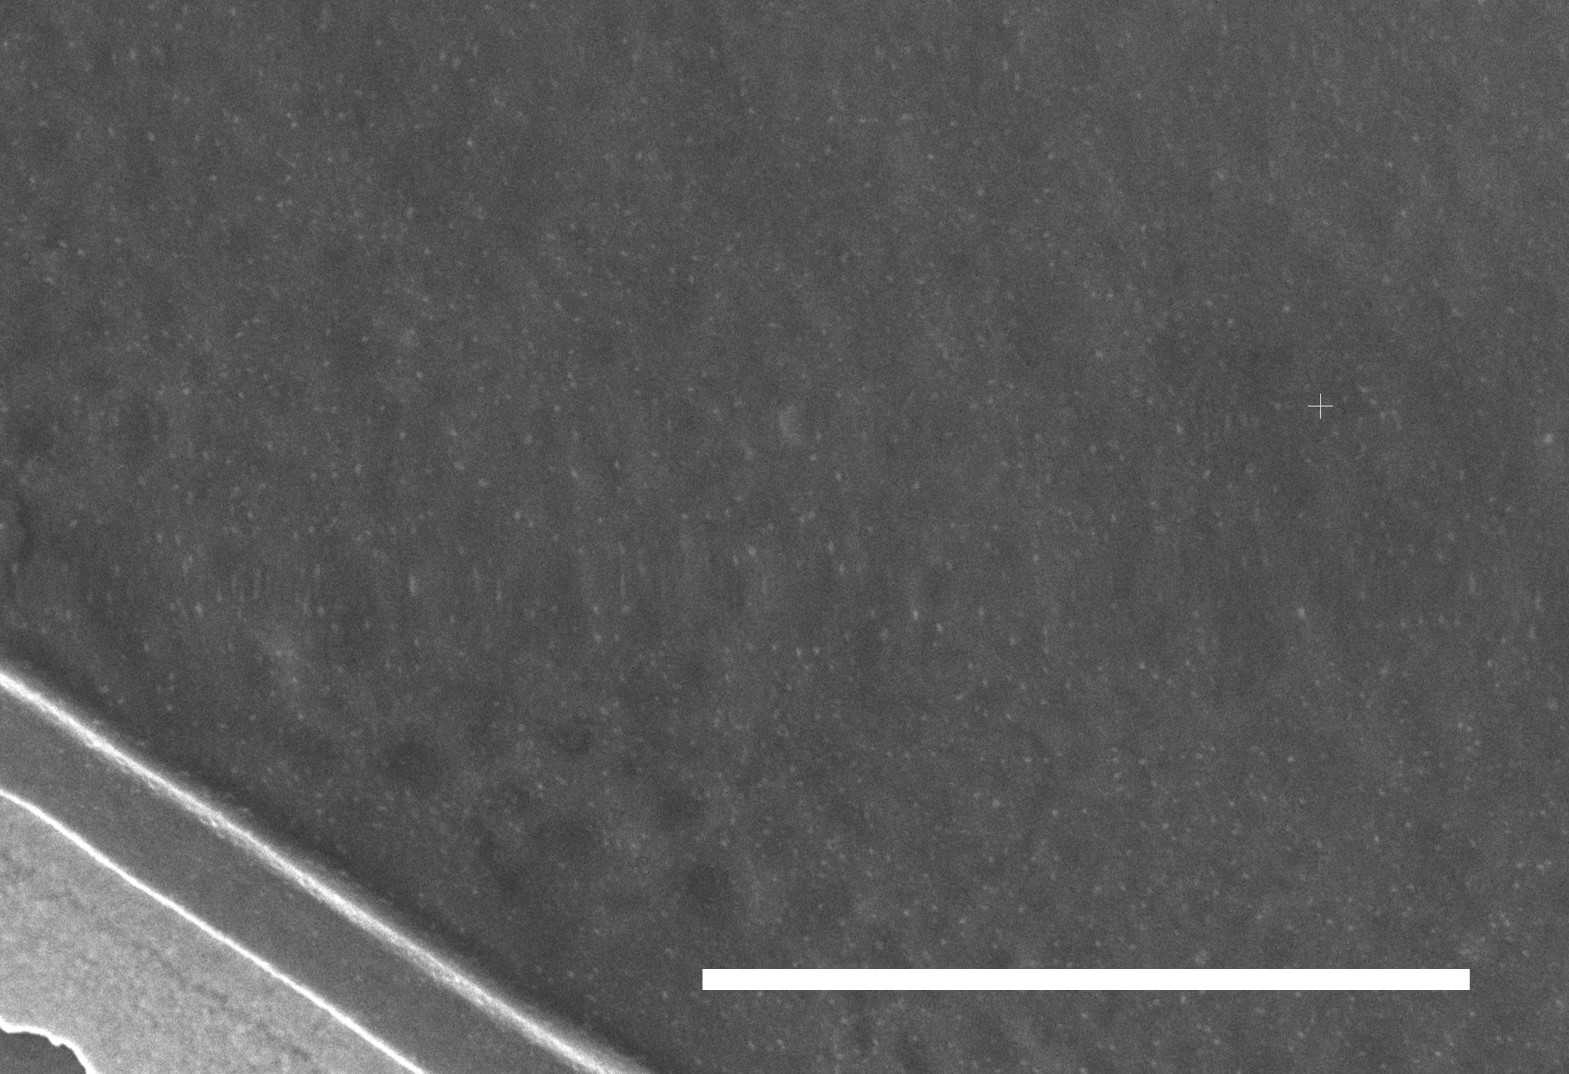
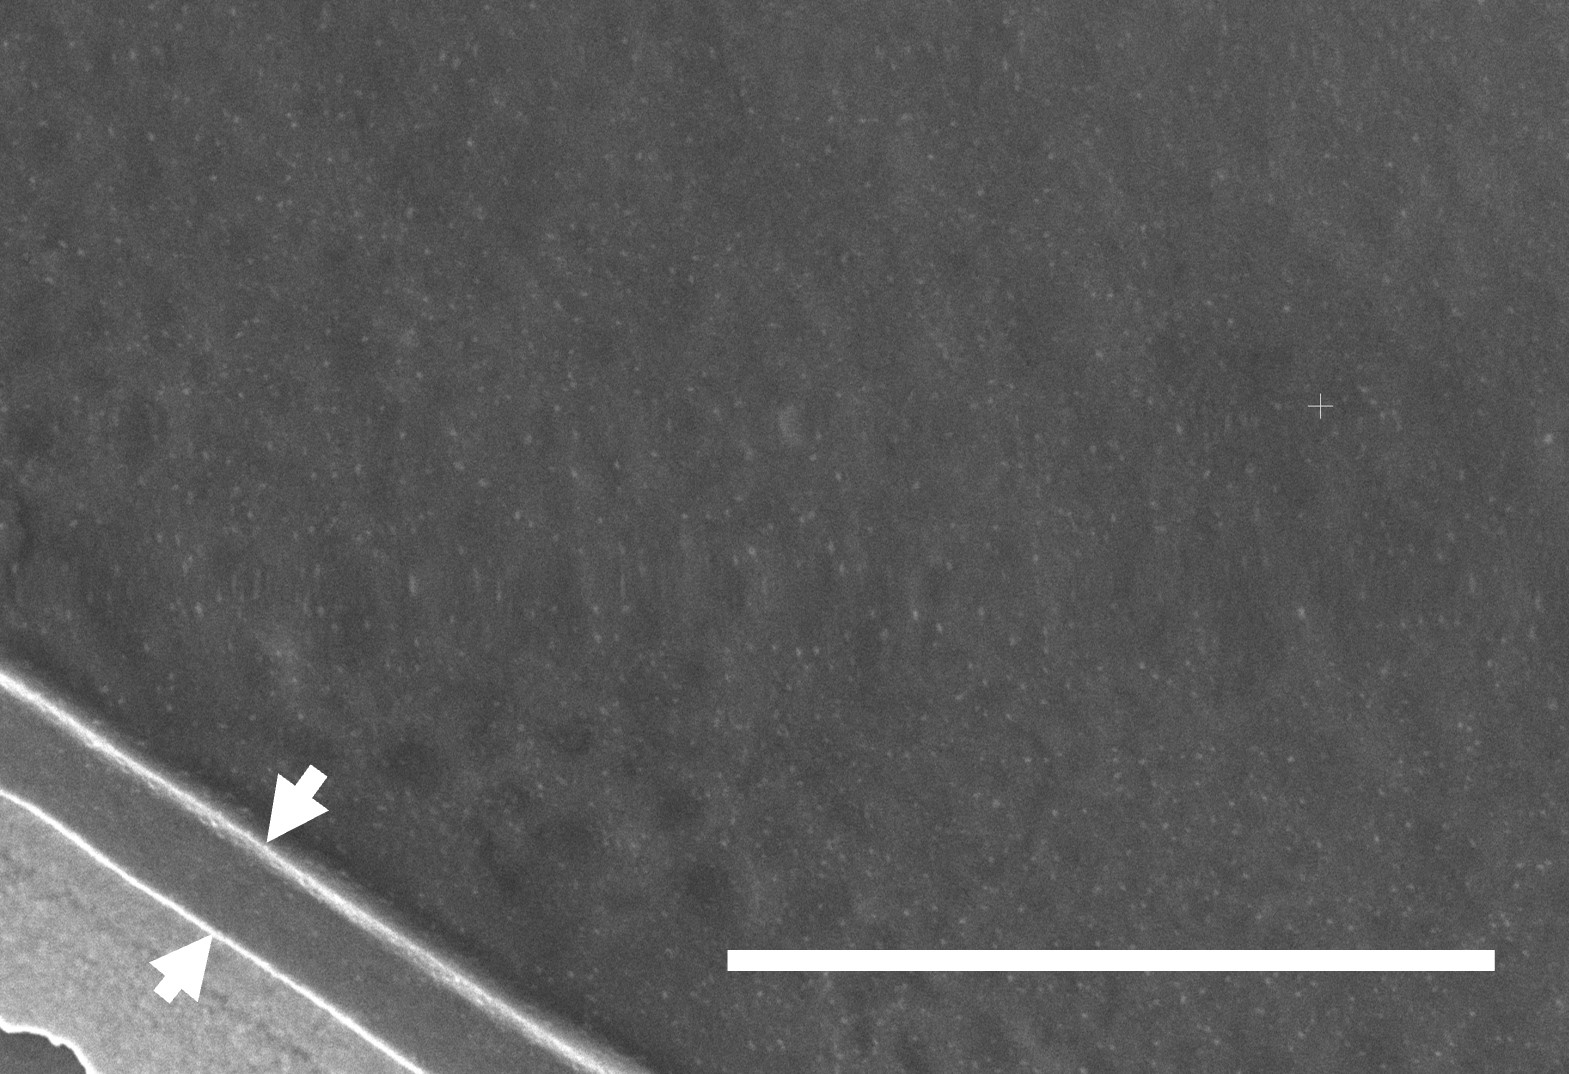
brynjar rettet noen av tilbakemeldingene

Changed region(s): [[0.4372, 0.8603, 0.9681, 0.9218], [0.1562, 0.7067, 0.2186, 0.7989], [0.0937, 0.8603, 0.1562, 0.9525]]

diff --git a/chapters/methods.tex b/chapters/methods.tex
@@ -2,9 +2,11 @@
 
 \noindent First, the barium solution was made.
 In a beaker, 10 mL of DI water was heated to 60°C while being stirred with a magnet.
+% TODO: legg til RPM på stirring. 
+% brynjar: det er ikke skrevet ned i notatene.
 To this, 3.6893 g of EDTA and 7 mL of ammonia solution was added, and the solution was stirred until clear.
 Then, 3.2676 g of Ba(NO$_3$)$_2$ and 4.8070 g of citric acid was added, and the solution was again stirred until clear.
-Finally, about 3.5 mL of ammonia solution was added to achieve a pH of 7. 
+Finally, about 3.5 mL of ammonia solution was added to achieve a pH of 7.
 This was verified using pH paper.
 The final solution was then added to a 50 mL volumetric flask, and the volume adjusted to 50 mL with DI water.
 
@@ -18,24 +20,40 @@ The solution was then covered with parafilm and stirred overnight, until the sol
 Finally, ammonia solution was added to adjust the pH to 7.
 The solution was then added to a bottle, and standardized to 0.501 mmol/gram using DI water.
 
-Finally, to make the BTO solution, 3 mL of titanium sol was first added to a beaker. 
-Then, 6.90 mL of barium sol was added, and the solutions were mixed together.
+% TODO, kommentar: (fikset, men les over)
+% It should be clear for the reader why these amounts are used. Remember that the volume of Ti sol is irrelevant here, as it is standardized per unit weight. Thus, you should rather say how much Ti-sol you weighted out, and that you added Ba-sol in a such way that the Ba-Ti ratio of the ions was 1:1 (assuming that Barium Nitrate was completely dissolved).
+% Gammel tekst:
+% Finally, to make the BTO solution, 3 mL of titanium sol was first added to a beaker. 
+% Then, 6.90 mL of barium sol was added, and the solutions were mixed together.
+% Nyt tekst:
+Since the titanium sol is standardized per unit weight, the volume is irrelevant, but the amount of titanium sol is important.
+3.4420 g of titanium sol was weighed out, and added to a beaker.
+The amount of barium sol needed to match that Ba-Ti ratio of the ions was 1:1.
+Thus, 6.90 mL of barium sol was added, and the solutions were mixed together. % Vi la til 4.0+2.9 mL
+It is here assumed that the barium nitrate got completely dissolved.
+
 
 \subsection{Substrate coating}
 
 \noindent The BTO was deposited on a Si-Pt substrate.
 Before the deposition, the substrate was cleaned with an ISO 5 clean room wipe, submerged in acetone, and rinsed with isopraoanol and water.
-Then, the wafer was dried with nitrogen gas, and placed in a plasma cleaner for 2 minutes with oxygen flow and 50/50 O$_2$/generator power.
+Then, the wafer was dried with nitrogen gas, and placed in the Plasma Cleaner from Diener Electronics for 2 minutes with oxygen flow and 50/50 O$_2$/generator power.
 The substrate was then placed in the spin coater and secured using vacuum.
 Using a syringe with a 0.2 \textmu m filter, the BTO was applied to the substrate.
 The spinning was done at 500 rpm for 10 seconds, then 2500 rpm for 30 seconds, with 5 seconds acceleration time.
 After the deposition, the substrate backside was cleaned using an ISO 5 clean room wipe and acetone.
 Then, the substrate was baked on a hot plate at 200°C for about 4 minutes.
-Finally, sintering was done in a gold furnace at 700°C for 10 minutes, heating and cooling as fast as possible.
+% TODO kommentar (fikset, men les over):
+% Heating and cooling as fast as possible is a rather arbitrary description. The heating rate is a very important parameter for solvent evaporation and crystallization, and you should write it in the units of C/min. The cooling rate is not equally important, but it can have an influence. For example, the domain size of Erbium Manganite, that you presented in figure 2, will depend on cooling rate when cooled from above the Curie temperature.
+% Gammel setning: Finally, sintering was done in a gold furnace at 700°C for 10 minutes, heating and cooling as fast as possible.
+% Ny setning
+Sintering was done in a gold furnace at 700°C for 10 minutes, with a heating rate of 35°C/minute. % har fra notatene at den ble varmet opp i 20 min, men det var det som klikka. Synes vi ikke skal skrive noe om det.
+The substrate was cooled down to room temperature in the furnace.
+
 
 \subsection{Characterization}
 
-\noindent First, the thin film was inspected using an optical microscope. 
+\noindent First, the thin film was inspected using an optical microscope.
 This was done at both 5X and 20X magnification.
 Then, the film was inspected using a Dektak 150 profilometer.
 This was done at 3 different locations on the sample, and the profiles were taken from the edge of the sample to the center.
@@ -45,6 +63,6 @@ The instrument was set to measure hills and valleys for 4000 microns in 60 secon
 Finally, the film was inspected using the SEM APREO.
 SEM images were taken on low voltage with a goal of imaging both the film surface and possibly the ferroelectric domain structure.
 The acceleration voltage was varied between 2 and 5 kV, and the beam current was varied between 50 and 200 pA.
-The magnification was 200X, 5000X, and 12000X. 
+The magnification was 200X, 5000X, and 12000X.
 Working distance was set to what the software recommended for each set of settings.
 The detectors used were the ETD detector for overview and the Trinity 2 (T2) secondary electron detector for the high resolution images.

diff --git a/chapters/results.tex b/chapters/results.tex
@@ -21,6 +21,7 @@ The result of this can be seen in \autoref{fig:optical_20x}.
     \caption{
         Optical overview image of one sample corner.
         The image was taken with a 5X magnification objective.
+        The scale bar is 500 \textmu m.
     }
     \label{fig:optical_overview}
 \end{figure}
@@ -31,6 +32,7 @@ The result of this can be seen in \autoref{fig:optical_20x}.
     \caption{
         Optical 20X magnification image of artifacts in the middle of the sample.
         The image was taken with a 20X magnification objective.
+        The scale bar is 125 \textmu m.
     }
     \label{fig:optical_20x}
 \end{figure}
@@ -49,7 +51,7 @@ The only data processing done was flattening the data on the instrument computer
 \begin{table}[ht]
     \centering
     \caption{
-        Profilometerdata in a table.
+        Profilometer data in a table.
         The mean is zero because each data set is centered around zero.
         All measurements are 4000 \textmu m long.
         All numbers are in nm.
@@ -74,6 +76,9 @@ The only data processing done was flattening the data on the instrument computer
     \caption{Profilometerdata showing scan 1, 2, and 3.
         Plotted with the mean centered around zero.
         The plots are with slightly different scales on the y-axis to include as much info as possible.
+        % TODO, kommentar (fikset, men les over):Is it possible to indicate where approximately in figure 3 these scans were taken?
+        % Brynjar, nei, ikke egentlig, vi har jo ikke noe oversiktsbilde. Men foreslår:
+        Scan 1, 2 and 3 were taken at at 1/3, the center, and 2/3 of the length, respectively.
         Acquired at NTNU NanoLab.
     }
     \label{fig:profilometer}
@@ -91,12 +96,12 @@ The examples used low voltage and low current, which was also used in this work.
 The thickness of the film was only measured at the edge.
 
 % SEM image of the corner
-\autoref{fig:sem_high_res} shows an overview SEM image of a corner, which is the same area in the optical image in \autoref{fig:optical_overview}.
+\autoref{fig:sem_overview} shows an overview SEM image of a corner, which is the same area in the optical image in \autoref{fig:optical_overview}.
 The image was taken with 3 kV and 50 pA, using the EDT detector to get both topography and z-contrast.
 The scale bar is 250 \textmu m.
 
 % SEM image of what might be pores
-\autoref{fig:sem_overview} shows a closer SEM image of a part of the sample.
+\autoref{fig:sem_high_res} shows a closer SEM image of a part of the sample.
 The image was taken with 5 kV and 0.1 nA, using the T2 SE detector, thus getting only topography contrast.
 The scale bar is 5 \textmu m.
 This image is of the edge, which is visible in the lower left corner.
@@ -125,7 +130,7 @@ The scale bar is 10 \textmu m.
     \includegraphics[width=0.45\textwidth]{figures/sem_high_res_5um.jpg}
     \caption{High resolution SEM image of the sample.
         The scale bar is 5 \textmu m.
-        The edge is visible in the lower left corner, where the thickness is measured to be 670 nm.
+        The edge is visible in the lower left corner, where the thickness is measured between the two white arrows to be 670 nm.
         5 kV, 100 pA, T2 SE detector, 3.0 mm WD, 12000X magnification.
         Acquired at NTNU NanoLab.
     }

diff --git a/chapters/theory.tex b/chapters/theory.tex
@@ -4,6 +4,7 @@
 In general, sol-gel processing combines small molecules to form a solid material.
 This is done using a solution of precursors (the \textit{sol}) that forms a network of bound molecules (the \textit{gel}).
 Traditionally, sol-gel processing only referred to the hydrolysis and condensation of alkoxide based precursor such as Si(OEt)$_2$ (tetraethyl orthosilicate), but today it refers to all processes using sol-gel.
+% TODO, kommentar: In general yes. However, different sol-gel routes can be quite different, and do not necessarily contain all the steps.
 The sol-gel synthesis method can be divided into the following six distinct steps.
 
 Step (1): The formation of a stable solution of the alkoxide or solvated metal precursor.
@@ -28,15 +29,16 @@ This makes the gel pores collapse, and all remaining organic species are volatil
 \subsection{Chemistry of the Sols}
 
 \noindent Using the sol-gel synthesis method, one can produce several types of materials.
-One example of such a material is BTO, with chemical formula BaTiO$_3$. 
+One example of such a material is BTO, with chemical formula BaTiO$_3$.
 This can be made of a mixture of barium sol and titanium sol.
 The following paragraph explains the components of these sols and what their functions are.
 
+% TODO: referanse til neste avsnitt
 Barium sol can be made of a mixture of water, EDTA (Ethylenediaminetetraacetic acid), ammonia solution, barium nitrate, and citric acid.
 Titanium sol can be made of a mixture of water, citric acid, Titanium isopropoxide, and ammonia solution.
 The barium nitrate and the titanium isopropoxide are the sources of the barium and titanium, respectively.
 Citric acid is a chelating agent, which means that it reacts with the metal ions to form stable, water-soluable metal complexes.
-In the barium solution, EDTA is works as an additional complexing agent.
+In the barium solution, EDTA works as an additional complexing agent.
 Finally, since the complex stability depends on the pH, the ammonia solution is used to for adjustments.
 
 \subsection{Profilometer}
@@ -55,6 +57,8 @@ At each x-y point, a force feedback loop measures the interactions between the s
 This method provides high vertical resolution, and is good for measuring step heights.
 However, as there is physical contact, the surface can potentially be contaminated or damaged.
 Also, the stylus tip size and shape influences the measurement, and thus limits the lateral resolution.
+% TODO, kommentar: Do you know what a typical probe tip size is?
+% brynjar, jeg aner ikke. den vi brukte var radius=12.5
 
 \begin{figure}[ht]
     \centering

diff --git a/chapters/discussion.tex b/chapters/discussion.tex
@@ -25,6 +25,7 @@ However, with the information available from only the optical images, it is not 
 \noindent In general, the results from the profilometer shows that the film is relatively flat.
 The STD of the three measurements is a way of quantifying the roughness of the film, and the values are low.
 The mean values in \autoref{tab:profilometer} give that the STDs are $(4.19 + 5.75 + 11.73) \textnormal{ nm} / 3  = 7.22 \textnormal{ nm}$, which is not completely flat, but still not too rough. % $\frac{(4.19 + 5.75 + 11.73) \textnormal{nm}}{3}  = 7.22 \textnormal{nm}$
+Compared to BTO thin films in the litterature, the measured roughness is in the same range \cite{george_preferentially_2013}.
 The quantiles are another way of quantifying the roughness of the film.
 The Q1 and Q3 values are the 25th and 75th percentiles, respectively.
 The difference between these two values is the interquartile range, which is a measure of the spread of the data.
@@ -40,6 +41,7 @@ A dip this shallow is not large enough to be considered a pore, but it is still 
 It could be that the tip is too wide to detect pores, since the dips are around 10 \textmu m long.
 The tip of the stylus is 12.5 \textmu m wide, so it is likely that the dips are too small to be detected.
 The SEM data could potentially show if there are pores in the film.
+However, the data from the profilometer is a covolution of the tip and the surface topography, thus features smaller than the tip size are highly uncertain and does usually not make much sense.
 
 % artifacts 1, the peak. peak and 
 The profilometer data also show some artifacts.
@@ -52,7 +54,7 @@ The last possibility fits well with the SEM image of an artifact shown in \autor
 A second artifact shown in the profilometer data is the deformation at around 2500 \textmu m in the third measurement.
 This deformation has a bell shape and is 20 nm high and 1000 \textmu m long.
 This artifact is probably a deformation since the optical and SEM images did not show any contamination that big.
-
+Since the scan is done from the edge of the sample towards the center, the deformation could be the edge bead effect.
 
 \subsection{SEM}
 

diff --git a/main.tex b/main.tex
@@ -70,6 +70,7 @@ group-digits = false,
 \begin{frontmatter}
 
   \title{TFE4575: Chemical methods for thin film deposition}
+  % TODO: more exciting title
   %\title{Characterization of an Unknown Sample Using Scanning Electron Microscopy, Scanning Transmission Electron Microscopy, Energy Dispersive X-Ray Spectroscopy, Atomic Force Microscopy, and Raman Spectroscopy}
 
   \author[fysikk]{Brynjar Morka Mæhlum}
@@ -85,6 +86,7 @@ group-digits = false,
     This mixture was applied to the substrate using spin coating, followed by drying at 200°C and sintering at 700°C.
     The film was then characterized using an optical microscope, a stylus profilometer, and a scanning electron microscope.
     The thickness of the film was estimated to be 670 nm.
+    The roughness was estimated to be 7.22 nm, measured as the STD of the surface profile from the profilometer.
     The optical microscope indicated that the film in general was homogenous, but that some artifacts were present.
     The SEM and profilometer gave more detailed information about the film morphology and the artifacts.
     Some artifacts were flaking, pinholes, film deformation and impurities.
